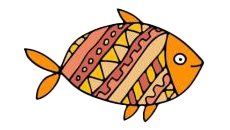
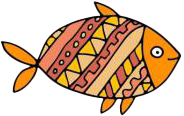
upd struct Fish

diff --git a/fish.py b/fish.py
@@ -9,21 +9,28 @@ from util import load_image
 
 class Fish(pygame.sprite.Sprite):
     fish_types = os.listdir(path='./data/fish')
-    fish_pictures = {i: None for i in fish_types}
+    fish_pictures = [{i: None for i in fish_types}, {i: None for i in fish_types}]
 
     def __init__(self, pos_x, pos_y, *groups):
         super().__init__(*groups)
         self.type = random.randint(0, len(self.fish_types) - 1)
+        self.orientation = random.randint(0, 1)
         fish = fish_descriptions[self.type]
-        if self.fish_pictures[fish["image_name"]] is None:
-            self.fish_pictures[fish["image_name"]] = load_image(f'fish/{self.fish_types[self.type]}')
-        if self.fish_pictures[fish["image_name"]] is not None:
-            self.image = pygame.transform.scale(self.fish_pictures[fish["image_name"]], FISH_SIZE)
+        self.image_name = fish["image_name"]
+        if self.fish_pictures[self.orientation][fish["image_name"]] is None:
+            img = load_image(f'fish/{self.fish_types[self.type]}')
+            self.fish_pictures[0][fish["image_name"]] = img
+            img_copy = img.copy()
+            self.fish_pictures[1][fish["image_name"]] = pygame.transform.flip(img_copy, True, False)
+        if self.fish_pictures[self.orientation][fish["image_name"]] is not None:
+            # self.image = pygame.transform.scale(self.fish_pictures[self.orientation][self.image_name], FISH_SIZE)
+            self.image = self.fish_pictures[self.orientation][self.image_name]
         self.rect = self.image.get_rect().move(pos_x, pos_y)
         self.speed = fish["speed"]
         self.cost = random.randint(*fish["cost"])
 
     def update(self):
-        self.rect.x += self.speed
+        self.rect.x += self.speed[self.orientation]
         if not self.rect.colliderect(SCREEN_RECT):
-            self.rect.x = 0
+            self.orientation ^= 1
+            self.image = self.fish_pictures[self.orientation][self.image_name]

diff --git a/constants.py b/constants.py
@@ -14,9 +14,15 @@ INDENT = 50
 STEP_TEXT = 10
 
 FISH_SIZE = (150, 85)
-fish_fields = ["image_name", "speed", "cost", "size"]
-fish_descriptions = [{"image_name": "1.png", "speed": 1, "cost": (10, 100)},
-                     {"image_name": "2.png", "speed": 2, "cost": (10, 100)},
-                     {"image_name": "3.png", "speed": 3, "cost": (10, 100)}]
+fish_fields = ["image_name", "speed", "cost"]
+fish_descriptions = [{'image_name': '1.png', 'speed': (1, -1), 'cost': (10, 100)},
+                     {'image_name': '2.png', 'speed': (2, -2), 'cost': (10, 100)},
+                     {'image_name': '3.png', 'speed': (3, -3), 'cost': (10, 100)},
+                     {'image_name': '4.png', 'speed': (4, -4), 'cost': (10, 100)},
+                     {'image_name': '5.png', 'speed': (5, -5), 'cost': (10, 100)},
+                     {'image_name': '6.png', 'speed': (6, -6), 'cost': (10, 100)},
+                     {'image_name': '7.png', 'speed': (7, -7), 'cost': (10, 100)},
+                     {'image_name': '8.png', 'speed': (8, -8), 'cost': (10, 100)},
+                     {'image_name': '9.png', 'speed': (9, -9), 'cost': (10, 100)}]
 
 FISH_COUNT = 5
